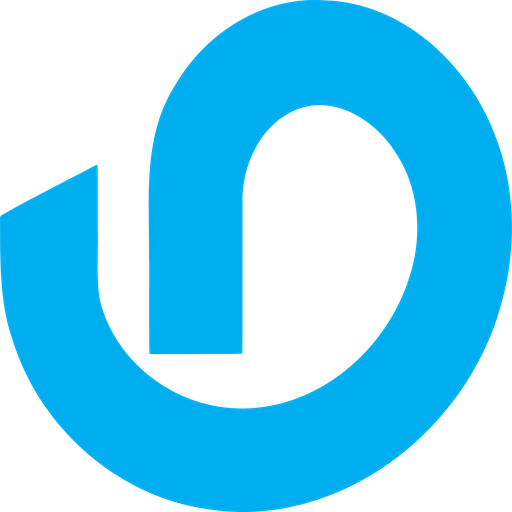
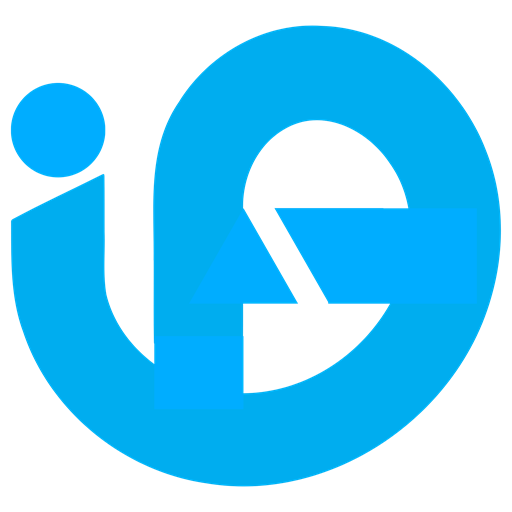
Refresh inBestmen brand assets

Changed region(s): [[0.0, 0.0, 1.0, 1.0]]

diff --git a/terms.html b/terms.html
@@ -1,1 +1,1 @@
-<!doctype html><html lang="en"><head><meta charset="utf-8"><meta name="viewport" content="width=device-width, initial-scale=1"><title>Terms of Service — inBestmen</title><link href="https://fonts.googleapis.com/css2?family=DM+Mono:wght@400;500&family=Manrope:wght@400;600;700;800&family=Space+Grotesk:wght@500;600;700&display=swap" rel="stylesheet"><link href="css/dashboard.css" rel="stylesheet"></head><body class="legal-page"><header class="legal-header"><a class="brand-lockup" href="index.html"><span class="brand-mark">i<span>B</span></span><span class="brand-name">inBestmen</span></a><a href="auth.html" class="text-button">Back to sign in</a></header><main class="legal-content"><span class="eyebrow">inBestmen legal</span><h1>Terms of Service</h1><p class="legal-updated">Last updated: October 26, 2026</p><p>These Terms of Service are a starting product draft for the inBestmen platform. By creating an account or using the platform, you agree to use it lawfully and responsibly.</p><h2>What inBestmen provides</h2><p>inBestmen helps people discover projects, participate in community signals and follow the progress of ideas. AI-assisted intake, human review and community voting are informational stages and are not a promise of funding, profit or investment returns.</p><h2>Accounts and responsibility</h2><p>You are responsible for keeping your account secure and for the accuracy of information you submit. You may not impersonate another person, abuse the platform or use it to conduct unlawful activity.</p><h2>iB Coins and payments</h2><p>iB Coins, PayPal checkout and project funding rules will be governed by the final payment terms shown before a transaction is confirmed. Do not purchase or transfer value until those rules and the payment integration are active.</p><h2>Project content</h2><p>Project creators retain ownership of their content while granting inBestmen permission to display it for review, discovery and community participation.</p><h2>Contact</h2><p>Questions can be sent to <a href="mailto:hello@inbestmen.com">hello@inbestmen.com</a>. This draft should be reviewed and adapted for the countries where inBestmen operates before launch.</p></main></body></html>
+<!doctype html><html lang="en"><head><meta charset="utf-8"><meta name="viewport" content="width=device-width, initial-scale=1"><meta name="description" content="Terms of Service for inBestmen."><link rel="icon" type="image/png" sizes="512x512" href="images/inbestmen-favicon.png"><link rel="apple-touch-icon" href="images/inbestmen-logo.png"><title>Terms of Service — inBestmen</title><link href="https://fonts.googleapis.com/css2?family=DM+Mono:wght@400;500&family=Manrope:wght@400;600;700;800&family=Space+Grotesk:wght@500;600;700&display=swap" rel="stylesheet"><link href="css/dashboard.css" rel="stylesheet"></head><body class="legal-page"><header class="legal-header"><a class="brand-lockup" href="index.html"><img class="brand-logo-image" src="images/inbestmen-wordmark.png" alt="inBestmen"></a><a href="auth.html" class="text-button">Back to sign in</a></header><main class="legal-content"><span class="eyebrow">inBestmen legal</span><h1>Terms of Service</h1><p class="legal-updated">Last updated: October 26, 2026</p><p>These Terms of Service are a starting product draft for the inBestmen platform. By creating an account or using the platform, you agree to use it lawfully and responsibly.</p><h2>What inBestmen provides</h2><p>inBestmen helps people discover projects, participate in community signals and follow the progress of ideas. AI-assisted intake, human review and community voting are informational stages and are not a promise of funding, profit or investment returns.</p><h2>Accounts and responsibility</h2><p>You are responsible for keeping your account secure and for the accuracy of information you submit. You may not impersonate another person, abuse the platform or use it to conduct unlawful activity.</p><h2>iB Coins and payments</h2><p>iB Coins, PayPal checkout and project funding rules will be governed by the final payment terms shown before a transaction is confirmed. Do not purchase or transfer value until those rules and the payment integration are active.</p><h2>Project content</h2><p>Project creators retain ownership of their content while granting inBestmen permission to display it for review, discovery and community participation.</p><h2>Contact</h2><p>Questions can be sent to <a href="mailto:hello@inbestmen.com">hello@inbestmen.com</a>. This draft should be reviewed and adapted for the countries where inBestmen operates before launch.</p></main></body></html>

diff --git a/privacy.html b/privacy.html
@@ -1,1 +1,1 @@
-<!doctype html><html lang="en"><head><meta charset="utf-8"><meta name="viewport" content="width=device-width, initial-scale=1"><title>Privacy Policy — inBestmen</title><link href="https://fonts.googleapis.com/css2?family=DM+Mono:wght@400;500&family=Manrope:wght@400;600;700;800&family=Space+Grotesk:wght@500;600;700&display=swap" rel="stylesheet"><link href="css/dashboard.css" rel="stylesheet"></head><body class="legal-page"><header class="legal-header"><a class="brand-lockup" href="index.html"><span class="brand-mark">i<span>B</span></span><span class="brand-name">inBestmen</span></a><a href="auth.html" class="text-button">Back to sign in</a></header><main class="legal-content"><span class="eyebrow">inBestmen legal</span><h1>Privacy Policy</h1><p class="legal-updated">Last updated: October 26, 2026</p><p>This Privacy Policy draft explains the information inBestmen expects to use to provide accounts, project discovery and community participation.</p><h2>Information we may collect</h2><p>Depending on the features you use, this may include your name, email address, account identifier, project content, support activity and technical information needed to keep the service secure.</p><h2>How we use information</h2><p>We use information to authenticate users, show dashboards, process authorized actions, improve project review and communicate important service updates. We do not place private API keys in browser code.</p><h2>Third-party services</h2><p>Firebase may provide authentication and database services, PayPal may process payments when enabled, and ElevenLabs may provide project narration or conversational agents. Each service has its own terms and privacy documentation.</p><h2>Data choices</h2><p>You may request access, correction or deletion of your account information by contacting <a href="mailto:hello@inbestmen.com">hello@inbestmen.com</a>, subject to legal and operational requirements.</p><h2>Important launch note</h2><p>This is a product-stage draft and must be reviewed for the jurisdictions where inBestmen operates before collecting real financial or identity data.</p></main></body></html>
+<!doctype html><html lang="en"><head><meta charset="utf-8"><meta name="viewport" content="width=device-width, initial-scale=1"><meta name="description" content="Privacy Policy for inBestmen."><link rel="icon" type="image/png" sizes="512x512" href="images/inbestmen-favicon.png"><link rel="apple-touch-icon" href="images/inbestmen-logo.png"><title>Privacy Policy — inBestmen</title><link href="https://fonts.googleapis.com/css2?family=DM+Mono:wght@400;500&family=Manrope:wght@400;600;700;800&family=Space+Grotesk:wght@500;600;700&display=swap" rel="stylesheet"><link href="css/dashboard.css" rel="stylesheet"></head><body class="legal-page"><header class="legal-header"><a class="brand-lockup" href="index.html"><img class="brand-logo-image" src="images/inbestmen-wordmark.png" alt="inBestmen"></a><a href="auth.html" class="text-button">Back to sign in</a></header><main class="legal-content"><span class="eyebrow">inBestmen legal</span><h1>Privacy Policy</h1><p class="legal-updated">Last updated: October 26, 2026</p><p>This Privacy Policy draft explains the information inBestmen expects to use to provide accounts, project discovery and community participation.</p><h2>Information we may collect</h2><p>Depending on the features you use, this may include your name, email address, account identifier, project content, support activity and technical information needed to keep the service secure.</p><h2>How we use information</h2><p>We use information to authenticate users, show dashboards, process authorized actions, improve project review and communicate important service updates. We do not place private API keys in browser code.</p><h2>Third-party services</h2><p>Firebase may provide authentication and database services, PayPal may process payments when enabled, and ElevenLabs may provide project narration or conversational agents. Each service has its own terms and privacy documentation.</p><h2>Data choices</h2><p>You may request access, correction or deletion of your account information by contacting <a href="mailto:hello@inbestmen.com">hello@inbestmen.com</a>, subject to legal and operational requirements.</p><h2>Important launch note</h2><p>This is a product-stage draft and must be reviewed for the jurisdictions where inBestmen operates before collecting real financial or identity data.</p></main></body></html>

diff --git a/404.html b/404.html
@@ -3,8 +3,10 @@
 
     <head>
         <meta charset="utf-8">
-        <title>Investa - Investment Website Template</title>
+        <title>inBestmen — Social Investment Platform</title>
         <meta content="width=device-width, initial-scale=1.0" name="viewport">
+        <link rel="icon" type="image/png" sizes="512x512" href="images/inbestmen-favicon.png">
+        <link rel="apple-touch-icon" href="images/inbestmen-logo.png">
         <meta content="" name="keywords">
         <meta content="" name="description">
 
@@ -74,8 +76,7 @@
             <div class="container px-0">
                 <nav class="navbar navbar-expand-lg navbar-dark bg-white py-3 px-4">
                     <a href="index.html" class="navbar-brand p-0">
-                        <h1 class="text-primary m-0"><i class="fas fa-donate me-3"></i>Investa</h1>
-                        <!-- <img src="img/logo.png" alt="Logo"> -->
+                        <img class="brand-logo-image" src="images/inbestmen-wordmark.png" alt="inBestmen">
                     </a>
                     <button class="navbar-toggler" type="button" data-bs-toggle="collapse" data-bs-target="#navbarCollapse">
                         <span class="fa fa-bars"></span>
@@ -100,7 +101,7 @@
                         </div>
                         <div class="d-flex align-items-center flex-nowrap pt-xl-0">
                             <button class="btn btn-primary btn-md-square mx-2" data-bs-toggle="modal" data-bs-target="#searchModal"><i class="fas fa-search"></i></button>
-                            <a href="#" class="btn btn-primary rounded-pill text-white py-2 px-4 ms-2 flex-wrap flex-sm-shrink-0">Start Investa</a>
+                            <a href="index.html" class="btn btn-primary rounded-pill text-white py-2 px-4 ms-2 flex-wrap flex-sm-shrink-0">Join inBestmen</a>
                         </div>
                     </div>
                 </nav>

diff --git a/about.html b/about.html
@@ -3,8 +3,10 @@
 
     <head>
         <meta charset="utf-8">
-        <title>Investa - Investment Website Template</title>
+        <title>inBestmen — Social Investment Platform</title>
         <meta content="width=device-width, initial-scale=1.0" name="viewport">
+        <link rel="icon" type="image/png" sizes="512x512" href="images/inbestmen-favicon.png">
+        <link rel="apple-touch-icon" href="images/inbestmen-logo.png">
         <meta content="" name="keywords">
         <meta content="" name="description">
 
@@ -74,8 +76,7 @@
             <div class="container px-0">
                 <nav class="navbar navbar-expand-lg navbar-dark bg-white py-3 px-4">
                     <a href="index.html" class="navbar-brand p-0">
-                        <h1 class="text-primary m-0"><i class="fas fa-donate me-3"></i>Investa</h1>
-                        <!-- <img src="img/logo.png" alt="Logo"> -->
+                        <img class="brand-logo-image" src="images/inbestmen-wordmark.png" alt="inBestmen">
                     </a>
                     <button class="navbar-toggler" type="button" data-bs-toggle="collapse" data-bs-target="#navbarCollapse">
                         <span class="fa fa-bars"></span>
@@ -100,7 +101,7 @@
                         </div>
                         <div class="d-flex align-items-center flex-nowrap pt-xl-0">
                             <button class="btn btn-primary btn-md-square mx-2" data-bs-toggle="modal" data-bs-target="#searchModal"><i class="fas fa-search"></i></button>
-                            <a href="#" class="btn btn-primary rounded-pill text-white py-2 px-4 ms-2 flex-wrap flex-sm-shrink-0">Start Investa</a>
+                            <a href="index.html" class="btn btn-primary rounded-pill text-white py-2 px-4 ms-2 flex-wrap flex-sm-shrink-0">Join inBestmen</a>
                         </div>
                     </div>
                 </nav>

diff --git a/blog.html b/blog.html
@@ -3,8 +3,10 @@
 
     <head>
         <meta charset="utf-8">
-        <title>Investa - Investment Website Template</title>
+        <title>inBestmen — Social Investment Platform</title>
         <meta content="width=device-width, initial-scale=1.0" name="viewport">
+        <link rel="icon" type="image/png" sizes="512x512" href="images/inbestmen-favicon.png">
+        <link rel="apple-touch-icon" href="images/inbestmen-logo.png">
         <meta content="" name="keywords">
         <meta content="" name="description">
 
@@ -74,8 +76,7 @@
             <div class="container px-0">
                 <nav class="navbar navbar-expand-lg navbar-dark bg-white py-3 px-4">
                     <a href="index.html" class="navbar-brand p-0">
-                        <h1 class="text-primary m-0"><i class="fas fa-donate me-3"></i>Investa</h1>
-                        <!-- <img src="img/logo.png" alt="Logo"> -->
+                        <img class="brand-logo-image" src="images/inbestmen-wordmark.png" alt="inBestmen">
                     </a>
                     <button class="navbar-toggler" type="button" data-bs-toggle="collapse" data-bs-target="#navbarCollapse">
                         <span class="fa fa-bars"></span>
@@ -100,7 +101,7 @@
                         </div>
                         <div class="d-flex align-items-center flex-nowrap pt-xl-0">
                             <button class="btn btn-primary btn-md-square mx-2" data-bs-toggle="modal" data-bs-target="#searchModal"><i class="fas fa-search"></i></button>
-                            <a href="#" class="btn btn-primary rounded-pill text-white py-2 px-4 ms-2 flex-wrap flex-sm-shrink-0">Start Investa</a>
+                            <a href="index.html" class="btn btn-primary rounded-pill text-white py-2 px-4 ms-2 flex-wrap flex-sm-shrink-0">Join inBestmen</a>
                         </div>
                     </div>
                 </nav>

diff --git a/contact.html b/contact.html
@@ -3,8 +3,10 @@
 
     <head>
         <meta charset="utf-8">
-        <title>Investa - Investment Website Template</title>
+        <title>inBestmen — Social Investment Platform</title>
         <meta content="width=device-width, initial-scale=1.0" name="viewport">
+        <link rel="icon" type="image/png" sizes="512x512" href="images/inbestmen-favicon.png">
+        <link rel="apple-touch-icon" href="images/inbestmen-logo.png">
         <meta content="" name="keywords">
         <meta content="" name="description">
 
@@ -74,8 +76,7 @@
             <div class="container px-0">
                 <nav class="navbar navbar-expand-lg navbar-dark bg-white py-3 px-4">
                     <a href="index.html" class="navbar-brand p-0">
-                        <h1 class="text-primary m-0"><i class="fas fa-donate me-3"></i>Investa</h1>
-                        <!-- <img src="img/logo.png" alt="Logo"> -->
+                        <img class="brand-logo-image" src="images/inbestmen-wordmark.png" alt="inBestmen">
                     </a>
                     <button class="navbar-toggler" type="button" data-bs-toggle="collapse" data-bs-target="#navbarCollapse">
                         <span class="fa fa-bars"></span>
@@ -100,7 +101,7 @@
                         </div>
                         <div class="d-flex align-items-center flex-nowrap pt-xl-0">
                             <button class="btn btn-primary btn-md-square mx-2" data-bs-toggle="modal" data-bs-target="#searchModal"><i class="fas fa-search"></i></button>
-                            <a href="#" class="btn btn-primary rounded-pill text-white py-2 px-4 ms-2 flex-wrap flex-sm-shrink-0">Start Investa</a>
+                            <a href="index.html" class="btn btn-primary rounded-pill text-white py-2 px-4 ms-2 flex-wrap flex-sm-shrink-0">Join inBestmen</a>
                         </div>
                     </div>
                 </nav>

diff --git a/faqs.html b/faqs.html
@@ -3,8 +3,10 @@
 
     <head>
         <meta charset="utf-8">
-        <title>Investa - Investment Website Template</title>
+        <title>inBestmen — Social Investment Platform</title>
         <meta content="width=device-width, initial-scale=1.0" name="viewport">
+        <link rel="icon" type="image/png" sizes="512x512" href="images/inbestmen-favicon.png">
+        <link rel="apple-touch-icon" href="images/inbestmen-logo.png">
         <meta content="" name="keywords">
         <meta content="" name="description">
 
@@ -74,8 +76,7 @@
             <div class="container px-0">
                 <nav class="navbar navbar-expand-lg navbar-dark bg-white py-3 px-4">
                     <a href="index.html" class="navbar-brand p-0">
-                        <h1 class="text-primary m-0"><i class="fas fa-donate me-3"></i>Investa</h1>
-                        <!-- <img src="img/logo.png" alt="Logo"> -->
+                        <img class="brand-logo-image" src="images/inbestmen-wordmark.png" alt="inBestmen">
                     </a>
                     <button class="navbar-toggler" type="button" data-bs-toggle="collapse" data-bs-target="#navbarCollapse">
                         <span class="fa fa-bars"></span>
@@ -100,7 +101,7 @@
                         </div>
                         <div class="d-flex align-items-center flex-nowrap pt-xl-0">
                             <button class="btn btn-primary btn-md-square mx-2" data-bs-toggle="modal" data-bs-target="#searchModal"><i class="fas fa-search"></i></button>
-                            <a href="#" class="btn btn-primary rounded-pill text-white py-2 px-4 ms-2 flex-wrap flex-sm-shrink-0">Start Investa</a>
+                            <a href="index.html" class="btn btn-primary rounded-pill text-white py-2 px-4 ms-2 flex-wrap flex-sm-shrink-0">Join inBestmen</a>
                         </div>
                     </div>
                 </nav>

diff --git a/project.html b/project.html
@@ -3,8 +3,10 @@
 
     <head>
         <meta charset="utf-8">
-        <title>Investa - Investment Website Template</title>
+        <title>inBestmen — Social Investment Platform</title>
         <meta content="width=device-width, initial-scale=1.0" name="viewport">
+        <link rel="icon" type="image/png" sizes="512x512" href="images/inbestmen-favicon.png">
+        <link rel="apple-touch-icon" href="images/inbestmen-logo.png">
         <meta content="" name="keywords">
         <meta content="" name="description">
 
@@ -74,8 +76,7 @@
             <div class="container px-0">
                 <nav class="navbar navbar-expand-lg navbar-dark bg-white py-3 px-4">
                     <a href="index.html" class="navbar-brand p-0">
-                        <h1 class="text-primary m-0"><i class="fas fa-donate me-3"></i>Investa</h1>
-                        <!-- <img src="img/logo.png" alt="Logo"> -->
+                        <img class="brand-logo-image" src="images/inbestmen-wordmark.png" alt="inBestmen">
                     </a>
                     <button class="navbar-toggler" type="button" data-bs-toggle="collapse" data-bs-target="#navbarCollapse">
                         <span class="fa fa-bars"></span>
@@ -100,7 +101,7 @@
                         </div>
                         <div class="d-flex align-items-center flex-nowrap pt-xl-0">
                             <button class="btn btn-primary btn-md-square mx-2" data-bs-toggle="modal" data-bs-target="#searchModal"><i class="fas fa-search"></i></button>
-                            <a href="#" class="btn btn-primary rounded-pill text-white py-2 px-4 ms-2 flex-wrap flex-sm-shrink-0">Start Investa</a>
+                            <a href="index.html" class="btn btn-primary rounded-pill text-white py-2 px-4 ms-2 flex-wrap flex-sm-shrink-0">Join inBestmen</a>
                         </div>
                     </div>
                 </nav>

diff --git a/service.html b/service.html
@@ -3,8 +3,10 @@
 
     <head>
         <meta charset="utf-8">
-        <title>Investa - Investment Website Template</title>
+        <title>inBestmen — Social Investment Platform</title>
         <meta content="width=device-width, initial-scale=1.0" name="viewport">
+        <link rel="icon" type="image/png" sizes="512x512" href="images/inbestmen-favicon.png">
+        <link rel="apple-touch-icon" href="images/inbestmen-logo.png">
         <meta content="" name="keywords">
         <meta content="" name="description">
 
@@ -74,8 +76,7 @@
             <div class="container px-0">
                 <nav class="navbar navbar-expand-lg navbar-dark bg-white py-3 px-4">
                     <a href="index.html" class="navbar-brand p-0">
-                        <h1 class="text-primary m-0"><i class="fas fa-donate me-3"></i>Investa</h1>
-                        <!-- <img src="img/logo.png" alt="Logo"> -->
+                        <img class="brand-logo-image" src="images/inbestmen-wordmark.png" alt="inBestmen">
                     </a>
                     <button class="navbar-toggler" type="button" data-bs-toggle="collapse" data-bs-target="#navbarCollapse">
                         <span class="fa fa-bars"></span>
@@ -100,7 +101,7 @@
                         </div>
                         <div class="d-flex align-items-center flex-nowrap pt-xl-0">
                             <button class="btn btn-primary btn-md-square mx-2" data-bs-toggle="modal" data-bs-target="#searchModal"><i class="fas fa-search"></i></button>
-                            <a href="#" class="btn btn-primary rounded-pill text-white py-2 px-4 ms-2 flex-wrap flex-sm-shrink-0">Start Investa</a>
+                            <a href="index.html" class="btn btn-primary rounded-pill text-white py-2 px-4 ms-2 flex-wrap flex-sm-shrink-0">Join inBestmen</a>
                         </div>
                     </div>
                 </nav>

diff --git a/team.html b/team.html
@@ -3,8 +3,10 @@
 
     <head>
         <meta charset="utf-8">
-        <title>Investa - Investment Website Template</title>
+        <title>inBestmen — Social Investment Platform</title>
         <meta content="width=device-width, initial-scale=1.0" name="viewport">
+        <link rel="icon" type="image/png" sizes="512x512" href="images/inbestmen-favicon.png">
+        <link rel="apple-touch-icon" href="images/inbestmen-logo.png">
         <meta content="" name="keywords">
         <meta content="" name="description">
 
@@ -74,8 +76,7 @@
             <div class="container px-0">
                 <nav class="navbar navbar-expand-lg navbar-dark bg-white py-3 px-4">
                     <a href="index.html" class="navbar-brand p-0">
-                        <h1 class="text-primary m-0"><i class="fas fa-donate me-3"></i>Investa</h1>
-                        <!-- <img src="img/logo.png" alt="Logo"> -->
+                        <img class="brand-logo-image" src="images/inbestmen-wordmark.png" alt="inBestmen">
                     </a>
                     <button class="navbar-toggler" type="button" data-bs-toggle="collapse" data-bs-target="#navbarCollapse">
                         <span class="fa fa-bars"></span>
@@ -100,7 +101,7 @@
                         </div>
                         <div class="d-flex align-items-center flex-nowrap pt-xl-0">
                             <button class="btn btn-primary btn-md-square mx-2" data-bs-toggle="modal" data-bs-target="#searchModal"><i class="fas fa-search"></i></button>
-                            <a href="#" class="btn btn-primary rounded-pill text-white py-2 px-4 ms-2 flex-wrap flex-sm-shrink-0">Start Investa</a>
+                            <a href="index.html" class="btn btn-primary rounded-pill text-white py-2 px-4 ms-2 flex-wrap flex-sm-shrink-0">Join inBestmen</a>
                         </div>
                     </div>
                 </nav>

diff --git a/testimonial.html b/testimonial.html
@@ -3,8 +3,10 @@
 
     <head>
         <meta charset="utf-8">
-        <title>Investa - Investment Website Template</title>
+        <title>inBestmen — Social Investment Platform</title>
         <meta content="width=device-width, initial-scale=1.0" name="viewport">
+        <link rel="icon" type="image/png" sizes="512x512" href="images/inbestmen-favicon.png">
+        <link rel="apple-touch-icon" href="images/inbestmen-logo.png">
         <meta content="" name="keywords">
         <meta content="" name="description">
 
@@ -74,8 +76,7 @@
             <div class="container px-0">
                 <nav class="navbar navbar-expand-lg navbar-dark bg-white py-3 px-4">
                     <a href="index.html" class="navbar-brand p-0">
-                        <h1 class="text-primary m-0"><i class="fas fa-donate me-3"></i>Investa</h1>
-                        <!-- <img src="img/logo.png" alt="Logo"> -->
+                        <img class="brand-logo-image" src="images/inbestmen-wordmark.png" alt="inBestmen">
                     </a>
                     <button class="navbar-toggler" type="button" data-bs-toggle="collapse" data-bs-target="#navbarCollapse">
                         <span class="fa fa-bars"></span>
@@ -100,7 +101,7 @@
                         </div>
                         <div class="d-flex align-items-center flex-nowrap pt-xl-0">
                             <button class="btn btn-primary btn-md-square mx-2" data-bs-toggle="modal" data-bs-target="#searchModal"><i class="fas fa-search"></i></button>
-                            <a href="#" class="btn btn-primary rounded-pill text-white py-2 px-4 ms-2 flex-wrap flex-sm-shrink-0">Start Investa</a>
+                            <a href="index.html" class="btn btn-primary rounded-pill text-white py-2 px-4 ms-2 flex-wrap flex-sm-shrink-0">Join inBestmen</a>
                         </div>
                     </div>
                 </nav>
